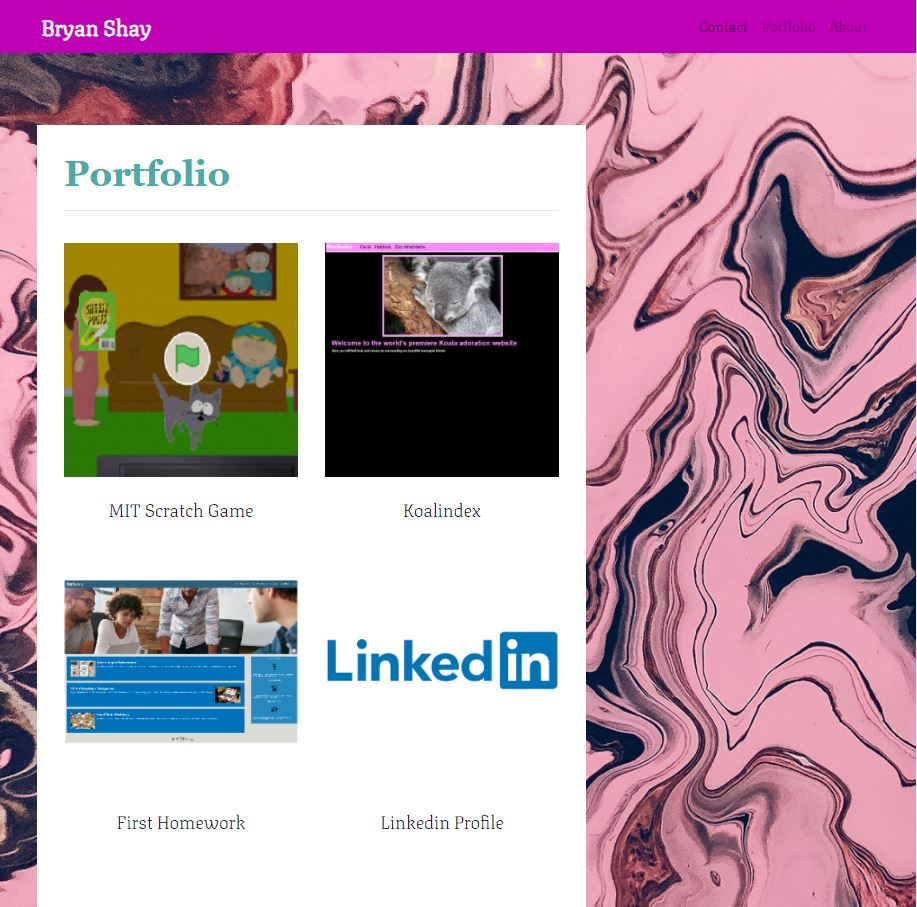
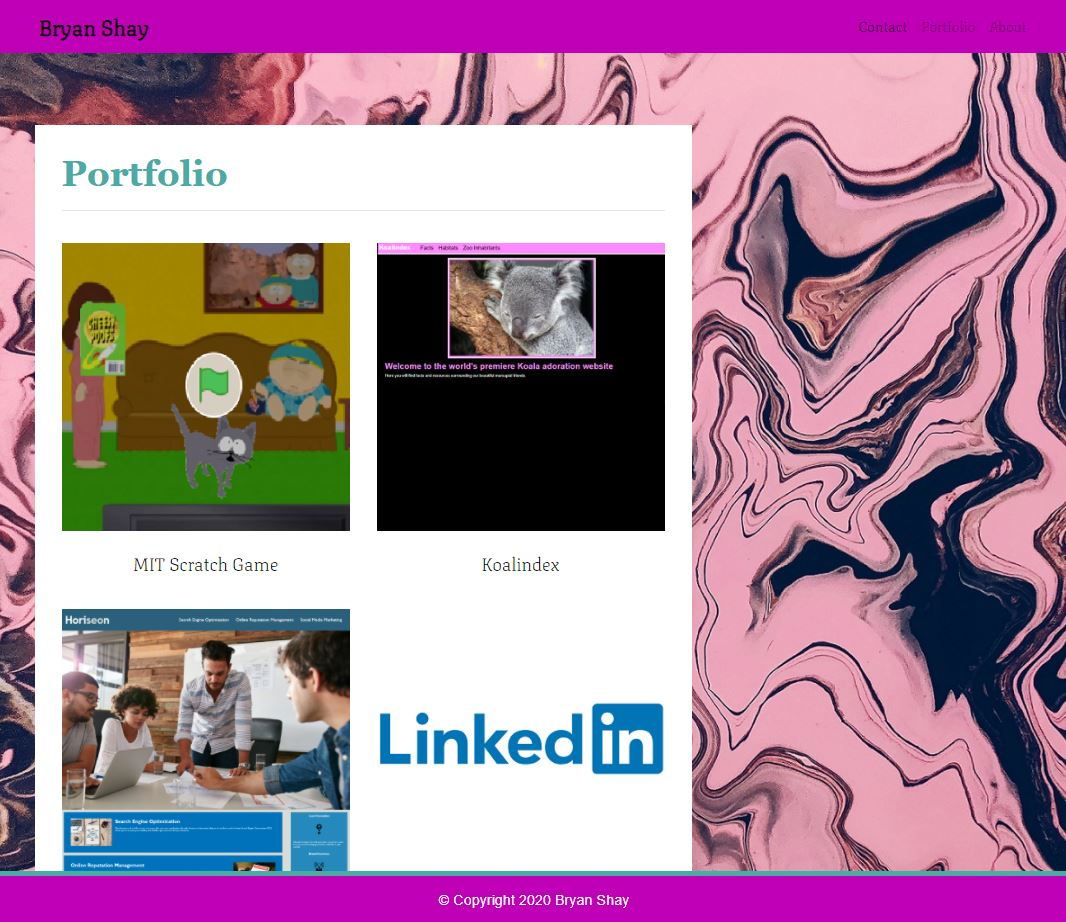
Final updates before submission of homework, double checking images, improving commenting, making footer sticky

diff --git a/index.html b/index.html
@@ -54,14 +54,15 @@
     <section class="row">
       <div class="col-md-9">
         <article class="block">
-
           <h1 class="block-header">About Me</h1>
           <hr />
-  
           <div class="row">
-           
             <div class="col-md-12">
-            <img src="assets/imgs/Face.jpg" alt="Bryan's Face" id="about-image"/>        
+
+            <!-- Portfolio Image -->
+            <img src="assets/imgs/Face.jpg" alt="Bryan's Face" id="about-image" class="img-fluid"/>      
+              
+            <!-- Portfolio Biography -->
               <p>Hello my name is Bryan Shay and I am a 31 year old Marketing Coordinator from Cleveland, Ohio. Before the shut down, I worked in Downtown Cleveland and had been for almost a decade. The best part about working downtown is all the tasy food you can eat for lunch. I signed up for the CWRU Coding Bootcamp to increase my job competency as well as open new avenues for my career. 
                 I have always been fascinated by technology and I don't see any end in site for the evolution of what we will be capable of doing. I am very interested in seeing where VR and AR lead us.
               </p>

diff --git a/portfolio.html b/portfolio.html
@@ -99,10 +99,10 @@
           <div class="row">
             <!-- Fifth portfolio item -->
             <div class="col-sm-6 col-md-12 col-lg-6">
-              <a href="https://www.pickleforaminute.com" target="_blank">
+              <a href="https://github.com/forgetfulmind?tab=repositories" target="_blank">
                 <figure>
-                  <img class="img-fluid port-image" src="./assets/imgs/PickleforaMinute.png" alt="Pickle for a Minute">
-                  <figcaption>Pickle for a Minute</figcaption>
+                  <img class="img-fluid port-image" src="./assets/imgs/github.png" alt="Pickle for a Minute">
+                  <figcaption>GitHub Repository</figcaption>
                 </figure>
               </a>
             </div>

diff --git a/assets/css/styles.css b/assets/css/styles.css
@@ -114,7 +114,8 @@ main {
 /* BEGIN FOOTER */
 .footer {
   /* Positioning */
-  position: absolute;
+  position: fixed;
+  left: 0;
   bottom: 0;
 
   /* Box-model */

diff --git a/README.md b/README.md
@@ -2,12 +2,14 @@
 
 Second Homework assignment for CWRU Bootcamp
 
-Consists of three pages, intended to be the framework for an online portfolio of work. 
+This assignment consists of three pages, intended to be the framework for an online portfolio page.  
+
+Please note that I hae interpreted line 22 of the homework assignment readme with some artistic liscence. I took it as a go ahead and personalize this page to myself. Functionally all the elements from the example screenshots are present, I have just applied personal style to the pages. 
 
 Screenshot of each page:
 -[About Me Page](./assets/imgs/aboutMe.jpg)
 -[Portfolio Page](./assets/imgs/portfolio.jpg)
 -[Contact Page](./assets/imgs/contact.jpg)
 
-Github repository: https://github.com/forgetfulmind/2-CSS-Boostrap.git
+Github repository location: https://github.com/forgetfulmind/2-CSS-Boostrap.git
 Deployed Website URL: https://forgetfulmind.github.io/2-CSS-Boostrap/
